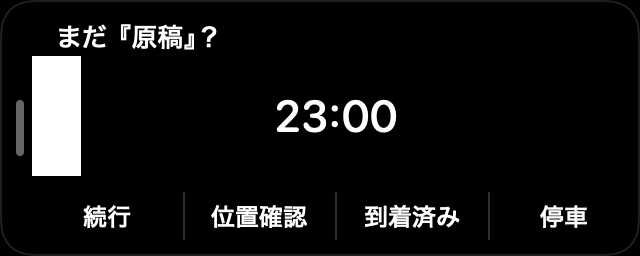
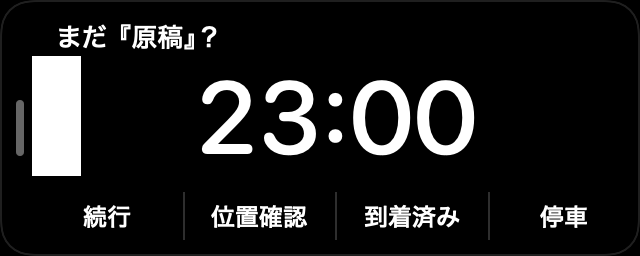
Mac PiP: scale remaining digits to instrument height
GeometryReader derives the time readout size from the available frame so
position-check bands and the classic progress row keep large monospaced
digits without overlapping the heading or choice band. Refresh pip-reestimate
screenshots and add a capture script for sandboxed test hosts.

Changed region(s): [[0.3125, 0.3125, 0.75, 0.625]]

diff --git a/TodoTrainCompanion/CompanionRideOverlayView.swift b/TodoTrainCompanion/CompanionRideOverlayView.swift
@@ -499,17 +499,22 @@ struct CompanionRideOverlayView: View {
     }
 
     private var nudgeInstrument: some View {
-        ZStack {
-            if let caption = presentation.instrumentCaption {
-                Text(caption)
-                    .font(.system(size: 18, weight: .semibold, design: .rounded).monospacedDigit())
-                    .foregroundStyle(RideOverlayPalette.fill(for: presentation))
-                    .lineLimit(1)
-                    .minimumScaleFactor(0.6)
+        GeometryReader { geo in
+            ZStack {
+                if let caption = presentation.instrumentCaption {
+                    pipFillHeightLabel(
+                        caption,
+                        color: RideOverlayPalette.fill(for: presentation),
+                        size: geo.size,
+                        heightRatio: 0.82,
+                        weight: .semibold
+                    )
                     .padding(.horizontal, 8)
-            } else {
-                progressRow
+                } else {
+                    progressRowContents(size: geo.size)
+                }
             }
+            .frame(width: geo.size.width, height: geo.size.height)
         }
         .accessibilityElement(children: .ignore)
         .accessibilityLabel(presentation.instrumentCaption ?? "残り \(presentation.remainingLabel)")
@@ -662,32 +667,56 @@ struct CompanionRideOverlayView: View {
 
     private var progressRow: some View {
         GeometryReader { geo in
-            let fillWidth = CGFloat(
-                RideOverlayGeometry.fillLength(
-                    progress: presentation.progress,
-                    total: geo.size.width
-                )
-            )
-            ZStack(alignment: .leading) {
-                Color.black
-                HStack(spacing: 0) {
-                    RideOverlayPalette.fill(for: presentation)
-                        .frame(width: fillWidth)
-                    Spacer(minLength: 0)
-                }
-                occupancyProgressMarks(width: geo.size.width, height: geo.size.height)
-                remainingDigits(RideOverlayPalette.onTrack)
-                remainingDigits(RideOverlayPalette.onFill(for: presentation))
-                    .mask {
-                        HStack(spacing: 0) {
-                            Color.white.frame(width: fillWidth)
-                            Color.clear
-                        }
-                    }
-            }
-            .frame(width: geo.size.width, height: geo.size.height)
+            progressRowContents(size: geo.size)
         }
         .clipped()
+    }
+
+    private func progressRowContents(size: CGSize) -> some View {
+        let fillWidth = CGFloat(
+            RideOverlayGeometry.fillLength(
+                progress: presentation.progress,
+                total: size.width
+            )
+        )
+        return ZStack(alignment: .leading) {
+            Color.black
+            HStack(spacing: 0) {
+                RideOverlayPalette.fill(for: presentation)
+                    .frame(width: fillWidth)
+                Spacer(minLength: 0)
+            }
+            occupancyProgressMarks(width: size.width, height: size.height)
+            remainingDigits(RideOverlayPalette.onTrack, size: size)
+            remainingDigits(RideOverlayPalette.onFill(for: presentation), size: size)
+                .mask {
+                    HStack(spacing: 0) {
+                        Color.white.frame(width: fillWidth)
+                        Color.clear
+                    }
+                }
+        }
+        .frame(width: size.width, height: size.height)
+    }
+
+    private func pipFillHeightLabel(
+        _ label: String,
+        color: Color,
+        size: CGSize,
+        heightRatio: CGFloat = 0.9,
+        weight: Font.Weight = .medium
+    ) -> some View {
+        let fontSize = max(11, size.height * heightRatio)
+        return Text(label)
+            .font(.system(size: fontSize, weight: weight, design: .rounded).monospacedDigit())
+            .foregroundStyle(color)
+            .lineLimit(1)
+            .minimumScaleFactor(0.35)
+            .frame(width: size.width, height: size.height)
+    }
+
+    private func remainingDigits(_ color: Color, size: CGSize) -> some View {
+        pipFillHeightLabel(presentation.remainingLabel, color: color, size: size)
     }
 
     @ViewBuilder
@@ -710,13 +739,6 @@ struct CompanionRideOverlayView: View {
                     .offset(x: tick.origin)
             }
         }
-    }
-
-    private func remainingDigits(_ color: Color) -> some View {
-        Text(presentation.remainingLabel)
-            .font(.system(size: 22, weight: .medium, design: .rounded).monospacedDigit())
-            .foregroundStyle(color)
-            .frame(maxWidth: .infinity, maxHeight: .infinity)
     }
 
     private var undoRow: some View {

diff --git a/TodoTrainCompanionTests/MacPipReestimateTests.swift b/TodoTrainCompanionTests/MacPipReestimateTests.swift
@@ -153,12 +153,28 @@ struct MacPipReestimateTests {
             let rep = try #require(bitmap(image))
             #expect(rep.pixelsWide == Int(card.width * scale))
             #expect(rep.pixelsHigh == Int(card.height * scale))
-            if let dir = ProcessInfo.processInfo.environment["PIP_BAND_DIR"], !dir.isEmpty {
-                let png = try #require(rep.representation(using: .png, properties: [:]))
-                let url = URL(fileURLWithPath: dir, isDirectory: true).appendingPathComponent("\(name).png")
+            let png = try #require(rep.representation(using: .png, properties: [:]))
+            if ProcessInfo.processInfo.environment["PIP_BAND_STDOUT"] == "1" {
+                print("PIP_BAND_PNG:\(name):\(png.base64EncodedString())")
+            }
+            if let staging = Self.pipBandScreenshotDirectory {
+                try FileManager.default.createDirectory(at: staging, withIntermediateDirectories: true)
+                let url = staging.appendingPathComponent("\(name).png")
                 try png.write(to: url, options: .atomic)
             }
         }
+    }
+
+    private static var projectRoot: URL {
+        URL(fileURLWithPath: #filePath)
+            .deletingLastPathComponent()
+            .deletingLastPathComponent()
+    }
+
+    private static var pipBandScreenshotDirectory: URL? {
+        guard let raw = ProcessInfo.processInfo.environment["PIP_BAND_DIR"], !raw.isEmpty else { return nil }
+        let expanded = raw.replacingOccurrences(of: "$(SRCROOT)", with: projectRoot.path())
+        return URL(fileURLWithPath: expanded, isDirectory: true)
     }
 
     private func make(
